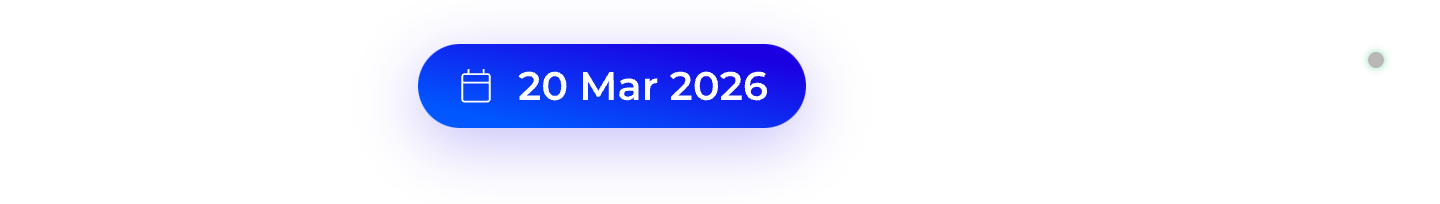
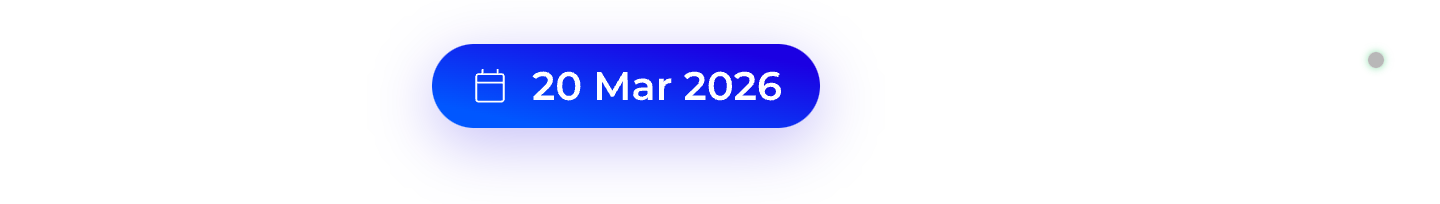
Meeting overlay YES/NO/MAYBE badges, Pencil recording bar, 4px gap spacing
- Meeting info overlay: YES (blue), NO (red), MAYBE (grey) badges
- Counts row fixed at bottom (position:absolute)
- Recording section added to Pencil with full controls
- Panel gap matched to Pencil (4px)
- Booking card padding 16px top/bottom
- Recording card border matched Pencil (#ffffff12)

Changed region(s): [[0.2812, 0.2059, 0.5938, 0.6471], [0.3125, 0.2059, 0.3438, 0.2353]]

diff --git a/index.html b/index.html
@@ -15,7 +15,7 @@ body{
 }
 .panel{
   width:720px;background:#000;
-  display:flex;flex-direction:column;gap:28px;overflow:hidden;
+  display:flex;flex-direction:column;gap:4px;overflow:hidden;
 }
 .section{position:relative;width:720px;flex-shrink:0;}
 .section img{display:block;width:720px;height:auto;}
@@ -85,7 +85,7 @@ body{
 .rec-slash span.txt{font-size:12px;font-weight:600;color:#ffffffcc;letter-spacing:2px;text-transform:uppercase}
 .rec-card{
   margin:14px 24px 0;border-radius:20px;background:#0d0f1a;
-  border:1.5px solid #4590ff44;
+  border:1px solid #ffffff12;
   padding:0 26px;height:80px;
   display:flex;align-items:center;gap:12px;
   position:relative;overflow:hidden;
@@ -511,16 +511,21 @@ body{
   padding:4px 10px;border-radius:20px;
   text-transform:uppercase;
 }
-.mo-badge-physical{
-  background:rgba(74,222,128,0.2);color:#4ade80;
-  border:1px solid rgba(74,222,128,0.3);
-}
-.mo-badge-online{
+.mo-badge-yes{
   background:rgba(96,165,250,0.2);color:#60a5fa;
   border:1px solid rgba(96,165,250,0.3);
 }
+.mo-badge-no{
+  background:rgba(248,113,113,0.2);color:#f87171;
+  border:1px solid rgba(248,113,113,0.3);
+}
+.mo-badge-maybe{
+  background:rgba(156,163,175,0.2);color:#9ca3af;
+  border:1px solid rgba(156,163,175,0.3);
+}
 .mo-counts{
-  display:flex;gap:16px;margin-top:auto;
+  display:flex;gap:16px;
+  position:absolute;bottom:20px;left:30px;
 }
 .mo-count-pill{
   display:flex;align-items:center;gap:6px;
@@ -531,8 +536,9 @@ body{
 .mo-count-dot{
   width:8px;height:8px;border-radius:4px;
 }
-.mo-count-dot.physical{background:#4ade80;}
-.mo-count-dot.online{background:#60a5fa;}
+.mo-count-dot.yes{background:#60a5fa;}
+.mo-count-dot.no{background:#f87171;}
+.mo-count-dot.maybe{background:#9ca3af;}
 .mo-count-num{
   font-size:22px;font-weight:700;color:#fff;
 }
@@ -554,9 +560,9 @@ body{
     <div class="drag-handle"></div>
     <img src="occupy-assets/r9Fnl.png" alt="" id="statusBarImg">
     <!-- Live clock over the transparent text in the glass pill -->
-    <div class="live-clock" id="liveClock" style="left:74px;top:23px;line-height:42px;">00:00</div>
+    <div class="live-clock" id="liveClock" style="left:74px;top:22px;line-height:42px;">00:00</div>
     <!-- Tricsy pill = refresh -->
-    <div class="hotspot" id="tricsyPill" style="left:654px;top:20px;width:42px;height:42px;border-radius:50%;"></div>
+    <div class="hotspot" id="tricsyPill" style="left:654px;top:22px;width:42px;height:42px;border-radius:50%;"></div>
   </div>
 
   <!-- ═══ ROOM NAME ═══ -->
@@ -566,7 +572,7 @@ body{
   </div>
 
   <!-- ═══ BOOKING CARD (FREE ↔ OCCUPIED) ═══ -->
-  <div class="section" data-name="booking-card">
+  <div class="section" data-name="booking-card" style="padding:16px 0">
     <div class="drag-handle"></div>
     <!-- FREE STATE (HTML/CSS) -->
     <div id="freeCard" class="card-state active">
@@ -752,29 +758,29 @@ const SCHEDULE=[
   {start:NOW_BOOT+16*60*1000, end:NOW_BOOT+76*60*1000, title:'Java Engineering INNOVA..', sub:'julia.sustakova',
    description:'Sprint review a plánovanie ďalšieho sprintu. Demo nových API endpointov pre integráciu s mobilnou aplikáciou.',
    attendees:[
-     {name:'Júlia Šustáková', mode:'physical'},
-     {name:'Martin Kováč', mode:'physical'},
-     {name:'Anna Horváthová', mode:'online'},
-     {name:'Peter Baláž', mode:'physical'},
-     {name:'Tomáš Zelený', mode:'online'}
-   ], physical:3, online:2},
+     {name:'Júlia Šustáková', rsvp:'yes'},
+     {name:'Martin Kováč', rsvp:'yes'},
+     {name:'Anna Horváthová', rsvp:'maybe'},
+     {name:'Peter Baláž', rsvp:'yes'},
+     {name:'Tomáš Zelený', rsvp:'no'}
+   ], yes:3, no:1, maybe:1},
   {start:NOW_BOOT+180*60*1000, end:NOW_BOOT+210*60*1000, title:'Sharry — status meeting', sub:'Peter Novak',
    description:'Týždenný status call s partnerom Sharry. Aktuálny stav integrácie prístupového systému a timeline na Q2.',
    attendees:[
-     {name:'Peter Novák', mode:'physical'},
-     {name:'Jakub Reken', mode:'physical'},
-     {name:'Sarah Chen', mode:'online'},
-     {name:'David Müller', mode:'online'},
-     {name:'Mária Tóthová', mode:'online'}
-   ], physical:2, online:3},
+     {name:'Peter Novák', rsvp:'yes'},
+     {name:'Jakub Reken', rsvp:'yes'},
+     {name:'Sarah Chen', rsvp:'maybe'},
+     {name:'David Müller', rsvp:'no'},
+     {name:'Mária Tóthová', rsvp:'yes'}
+   ], yes:3, no:1, maybe:1},
   {start:NOW_BOOT+240*60*1000, end:NOW_BOOT+300*60*1000, title:'TRICSY UX display', sub:'jakub. reken',
    description:'Prezentácia nového UX návrhu pre TRICSY hlasového asistenta. Review interakčných prototypov a user flow.',
    attendees:[
-     {name:'Jakub Reken', mode:'physical'},
-     {name:'Lucia Krajčová', mode:'physical'},
-     {name:'Marek Dubský', mode:'physical'},
-     {name:'Filip Ondruš', mode:'online'}
-   ], physical:3, online:1}
+     {name:'Jakub Reken', rsvp:'yes'},
+     {name:'Lucia Krajčová', rsvp:'yes'},
+     {name:'Marek Dubský', rsvp:'maybe'},
+     {name:'Filip Ondruš', rsvp:'no'}
+   ], yes:2, no:1, maybe:1}
 ];
 
 let countdownInterval=null;
@@ -1138,8 +1144,8 @@ function buildOverlayHTML(meeting){
   html+='<div class="mo-attendees-grid">';
   meeting.attendees.forEach(a=>{
     const initials=a.name.split(' ').map(w=>w[0]).join('').substring(0,2);
-    const badgeClass=a.mode==='physical'?'mo-badge-physical':'mo-badge-online';
-    const badgeText=a.mode==='physical'?'In Room':'Online';
+    const badgeClass=a.rsvp==='yes'?'mo-badge-yes':a.rsvp==='no'?'mo-badge-no':'mo-badge-maybe';
+    const badgeText=a.rsvp==='yes'?'YES':a.rsvp==='no'?'NO':'MAYBE';
     html+='<div class="mo-attendee">';
     html+='<div class="mo-avatar">'+initials+'</div>';
     html+='<div class="mo-attendee-name">'+a.name+'</div>';
@@ -1148,8 +1154,9 @@ function buildOverlayHTML(meeting){
   });
   html+='</div>';
   html+='<div class="mo-counts">';
-  html+='<div class="mo-count-pill"><div class="mo-count-dot physical"></div><div class="mo-count-num">'+meeting.physical+'</div><div class="mo-count-label">In Room</div></div>';
-  html+='<div class="mo-count-pill"><div class="mo-count-dot online"></div><div class="mo-count-num">'+meeting.online+'</div><div class="mo-count-label">Online</div></div>';
+  html+='<div class="mo-count-pill"><div class="mo-count-dot yes"></div><div class="mo-count-num">'+(meeting.yes||0)+'</div><div class="mo-count-label">Yes</div></div>';
+  html+='<div class="mo-count-pill"><div class="mo-count-dot no"></div><div class="mo-count-num">'+(meeting.no||0)+'</div><div class="mo-count-label">No</div></div>';
+  html+='<div class="mo-count-pill"><div class="mo-count-dot maybe"></div><div class="mo-count-num">'+(meeting.maybe||0)+'</div><div class="mo-count-label">Maybe</div></div>';
   html+='</div>';
   return html;
 }
@@ -1221,8 +1228,8 @@ document.querySelector('.occ-card > .occ-meeting-row .info-btn')?.addEventListen
       start:meetingStartMs, end:meetingEndMs,
       title:'Ad-hoc Booking', sub:'jakub reken',
       description:'Rýchla rezervácia miestnosti cez panel. Žiadne ďalšie detaily z kalendára.',
-      attendees:[{name:'Jakub Reken', mode:'physical'}],
-      physical:1, online:0
+      attendees:[{name:'Jakub Reken', rsvp:'yes'}],
+      yes:1, no:0, maybe:0
     };
     showMeetingOverlay(adhoc,'occupied');
   }
